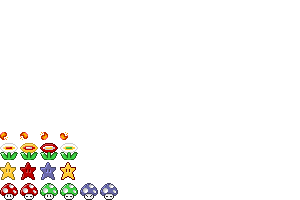
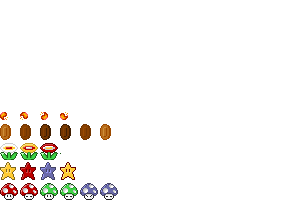
코인 아이템 추가
코인 아이템 추가

Changed region(s): [[0.0, 0.54, 0.27, 0.81], [0.33, 0.6, 0.39, 0.72], [0.27, 0.6, 0.3, 0.72]]

diff --git a/슈퍼마리오 수정/Item.py b/슈퍼마리오 수정/Item.py
@@ -206,7 +206,7 @@ class FireFlower(Item):
 
     def __init__(self, pos):
         super().__init__()
-        self.animator = OriginAnimation(Global.item_img, 0, 40, 18, 18, 50, 50, 4, 20, 0.05)
+        self.animator = OriginAnimation(Global.item_img, 0, 40, 18, 18, 50, 50, 3, 20, 0.1)
         self.pos = Position(float(pos.x), float(pos.y), 47, 47)
         self.mode = 0
         self.v_speed = 0
@@ -237,6 +237,55 @@ class FireFlower(Item):
             play_state.items.remove(self)
 
 
+class Coin(Item):
+    def item_number(self):
+        return 4
+
+    def __init__(self, pos):
+        super().__init__()
+        self.animator = OriginAnimation(Global.item_img, 0, 60, 11, 16, 33, 48, 6, 20, 0.05)
+        self.pos = Position(float(pos.x), float(pos.y), 33, 48)
+        self.mode = 0
+        self.v_speed = 0
+        self.life_time = 0.3
+
+        self.rise = 0
+
+    def update(self):
+        delta_time = Global.delta_time
+
+        if self.mode == 0:  # 블럭에서 생성되서 나타날때
+            self.v_speed = 800
+            self.pos.y += self.v_speed * delta_time
+            self.rise += self.v_speed * delta_time
+            if self.rise >= 50:
+                self.mode = 1
+
+        elif self.mode == 1:    # 일반적인 상황
+            self.base_move()
+            self.crash_mario()
+            self.life_time -= delta_time
+            if self.life_time <= 0:
+                play_state.score += 100
+                play_state.items.remove(self)
+
+    def base_move(self):
+        delta_time = Global.delta_time
+
+        # 낙하&점프
+        self.v_speed -= constant.mario_gravity * delta_time
+        if self.v_speed < constant.mario_min_v_speed:  # 낙하 최대속도 조정
+            self.v_speed = constant.mario_min_v_speed
+
+        self.pos.y += self.v_speed * delta_time
+
+    def crash_mario(self):
+        col_xy = self.pos.collide_pos(play_state.mario.pos)
+        if col_xy != (0, 0):
+            play_state.score += 100
+            play_state.items.remove(self)
+
+
 def make_item_from_block(number, block):
     if number == 1:
         return SuperMushroom(block.pos)
@@ -244,4 +293,5 @@ def make_item_from_block(number, block):
         return LifeUpMushroom(block.pos)
     elif number == 3:
         return FireFlower(block.pos)
-
+    elif number == 4:
+        return Coin(block.pos)

diff --git a/슈퍼마리오 수정/Mario.py b/슈퍼마리오 수정/Mario.py
@@ -10,6 +10,7 @@ class Mario:
     def __init__(self, x, y):
         self.life = 3
         self.death = False
+        self.invincible = 0
         self.pos = Position(x, y, 46, 46)
         
         self.mode = 0
@@ -48,6 +49,10 @@ class Mario:
         ]
 
     def update(self):
+        delta_time = Global.delta_time
+
+        self.invincible -= delta_time
+
         if self.mode != self.change_mode:   # 변신중
             self.changing()
         else:
@@ -193,17 +198,36 @@ class Mario:
         if mode <= self.change_mode:
             if mode == 1:
                 # 추가 점수+
-                pass
+                play_state.score += 500
             elif mode == 2:
                 # 추가 점수+
-                pass
+                play_state.score += 1000
         # 업그래이드 될 수 있을경우
         else:
             self.change_mode = mode
+            self.set_invincible(1)
 
     def downgrage_change_mode(self):
+        if self.is_invincible():    # 무적일경우 아무것도 하지 않는다.
+            return
+        else:                       # 무적이 아닐경우
+            self.set_invincible(1)
+
+        # 진화 상태가 아닐때
         if self.mode == 0:
-            self.death = True
+            if self.life <= 0:
+                self.death = True
+            else:
+                self.life -= 1
+        # 진화 상태 일때
         else:
             self.change_mode = self.mode - 1
 
+    def is_invincible(self):
+        if self.invincible > 0:
+            return True
+        return False
+
+    def set_invincible(self, set_time):
+        if self.invincible < set_time:
+            self.invincible = set_time

diff --git a/슈퍼마리오 수정/Button.py b/슈퍼마리오 수정/Button.py
@@ -130,6 +130,7 @@ class EditItemButton(Button):
             SingleIndexAnimation(Global.item_img, 0, 0, 18, 18, 50, 50),    # 슈퍼 머쉬룸
             SingleIndexAnimation(Global.item_img, 40, 0, 18, 18, 50, 50),   # 라이프 머쉬룸
             SingleIndexAnimation(Global.item_img, 0, 40, 18, 18, 50, 50),   # 파이어 플라워
+            SingleIndexAnimation(Global.item_img, 0, 60, 11, 16, 22, 32),   # 코인
         ]
 
     def onClick(self, mx, my):

diff --git a/슈퍼마리오 수정/edit_state.py b/슈퍼마리오 수정/edit_state.py
@@ -40,6 +40,7 @@ edit_obj_buttons = [
         EditItemButton(25, constant.screen_h - 25, 1),
         EditItemButton(75, constant.screen_h - 25, 2),
         EditItemButton(125, constant.screen_h - 25, 3),
+        EditItemButton(175, constant.screen_h - 25, 4),
     ],
 ]
 

diff --git a/슈퍼마리오 수정/play_state.py b/슈퍼마리오 수정/play_state.py
@@ -18,7 +18,7 @@ effects = []
 enemies = []
 attacks = []
 
-score = 0
+score = int()
 
 collisions_range = set()
 
